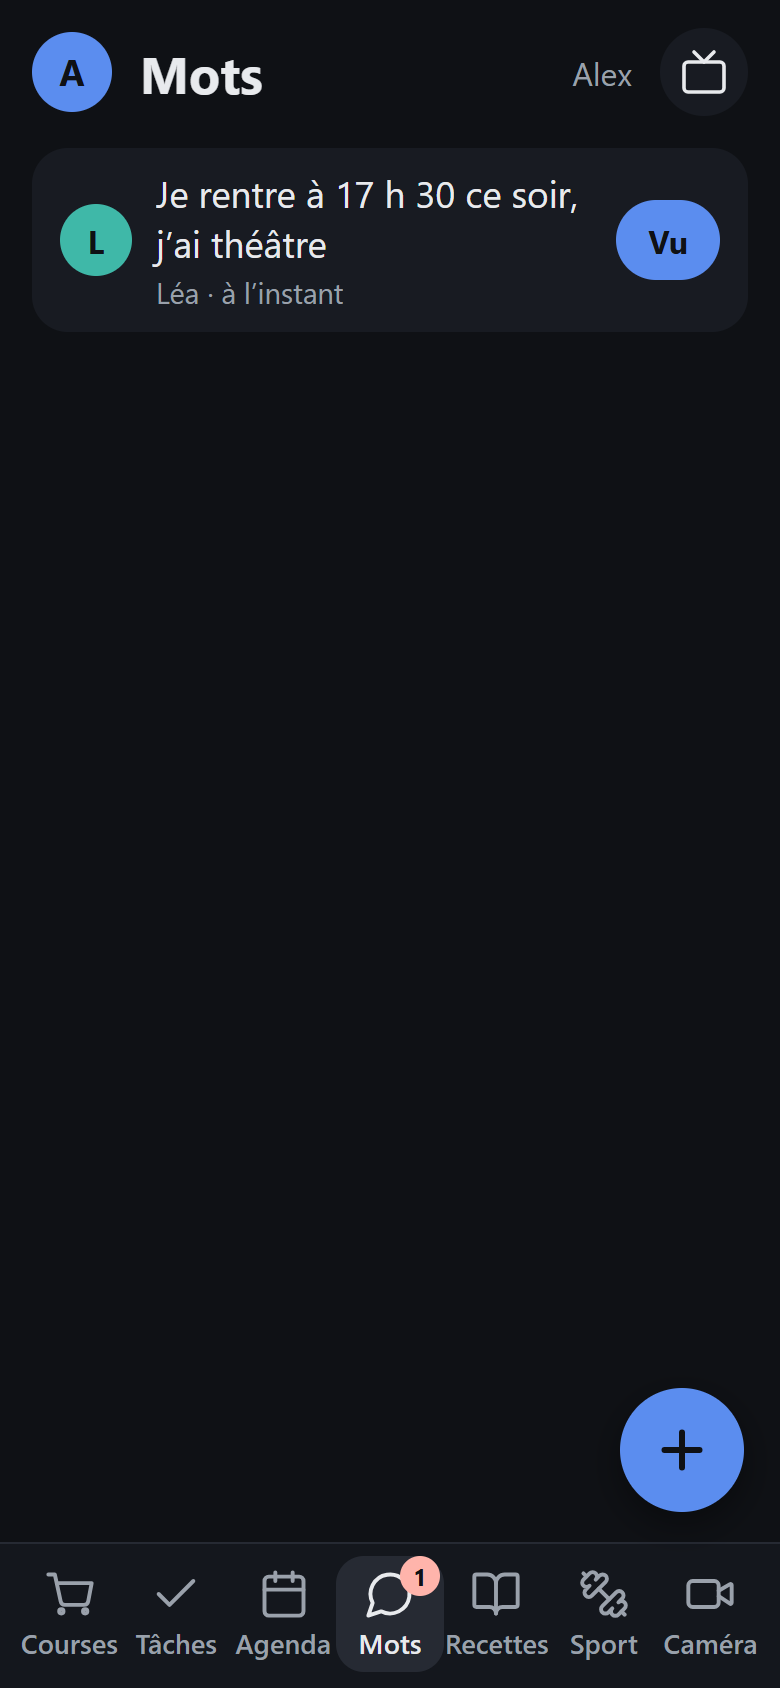
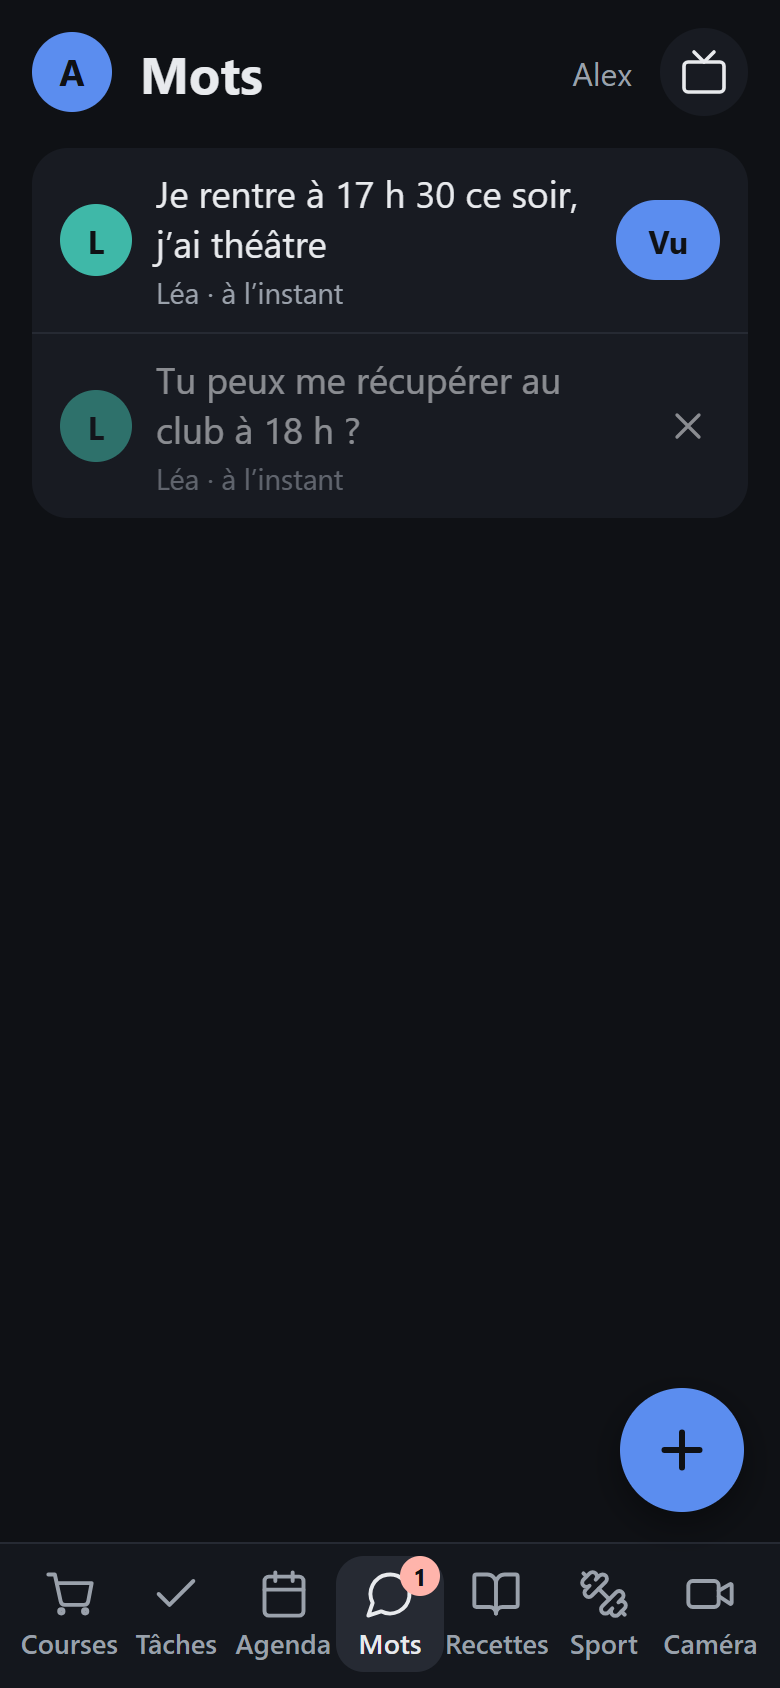
0.74.0 : croix pour supprimer un mot déjà lu
- Téléphone, onglet Mots : une croix (« Supprimer le mot ») en face de chaque mot déjà vu le supprime tout de
  suite, sans confirmation.
- Serveur : route DELETE /api/notes/:id, mêmes droits que « Vu » (son destinataire, un parent pour un mot à toute
  la famille) ; 409 pour un mot pas encore vu, 404 pour un mot inconnu.
- La tablette n'affiche que les mots pas encore vus : pas de croix à y mettre.
- Monde fictif : un mot déjà vu par Alex, capture de l'onglet Mots refaite ; README, écrans et TODO à jour.

Changed region(s): [[0.1846, 0.2156, 0.7077, 0.3081], [0.0615, 0.2156, 0.1846, 0.2773], [0.8615, 0.2464, 0.8923, 0.2773]]

diff --git a/web/src/components/phone/PhoneNotes.svelte b/web/src/components/phone/PhoneNotes.svelte
@@ -3,8 +3,10 @@
   import { formatAgo } from '../../lib/format.ts';
   import type { Profile } from '../../lib/profiles.ts';
   import Avatar from '../Avatar.svelte';
+  import Icon from '../Icon.svelte';
 
-  // Onglet Mots du téléphone : les mots reçus (pour moi ou pour toute la famille), les nouveaux d'abord, avec « Vu ».
+  // Onglet Mots du téléphone : les mots reçus (pour moi ou pour toute la famille), les nouveaux d'abord, avec « Vu »,
+  // et une croix pour supprimer ceux déjà vus.
   type Props = {
     /** Mots reçus, déjà triés ; null tant qu'ils ne sont pas chargés. */
     received: Note[] | null;
@@ -14,8 +16,11 @@
     profileOf: (id: string) => Profile | undefined;
     canSee: (note: Note) => boolean;
     onSee: (note: Note) => void;
+    /** Croix : mot déjà vu, que je peux marquer vu (le serveur revérifie). */
+    canRemove: (note: Note) => boolean;
+    onRemove: (note: Note) => void;
   };
-  let { received, loadError, actionError, now, profileOf, canSee, onSee }: Props = $props();
+  let { received, loadError, actionError, now, profileOf, canSee, onSee, canRemove, onRemove }: Props = $props();
 </script>
 
 {#if actionError}<p class="error">{actionError}</p>{/if}
@@ -33,6 +38,8 @@
         </div>
         {#if !note.seenAt && canSee(note)}
           <button type="button" class="seen" onclick={() => onSee(note)}>Vu</button>
+        {:else if canRemove(note)}
+          <button type="button" class="remove" aria-label="Supprimer le mot" title="Supprimer le mot" onclick={() => onRemove(note)}><Icon name="close" size={22} /></button>
         {/if}
       </li>
     {:else}
@@ -93,6 +100,19 @@
 
   .small {
     font-size: 0.9rem;
+  }
+
+  .remove {
+    display: grid;
+    width: 48px;
+    height: 48px;
+    flex-shrink: 0;
+    margin: -6px -8px -6px 0;
+    place-items: center;
+    border: 0;
+    border-radius: 50%;
+    background: none;
+    color: var(--fg);
   }
 
   .seen {

diff --git a/server/lists-api.test.ts b/server/lists-api.test.ts
@@ -250,6 +250,20 @@ describe('API des listes', () => {
     expect((await call('PUT', '/notes/inconnu/seen', { key: KEY, actor: alex })).status).toBe(404);
     const all = await (await call('GET', '/notes')).json();
     expect(all.filter((n: { seenAt?: string }) => !n.seenAt)).toHaveLength(1); // « Repas à 19 h », pas encore vu
+
+    // Supprimer un mot déjà vu : mêmes droits que « Vu ».
+    const unseen = all.find((n: { seenAt?: string }) => !n.seenAt);
+    expect((await call('DELETE', `/notes/${unseen.id}`, { key: KEY, actor: alex })).status).toBe(409); // pas encore vu
+    expect((await call('DELETE', `/notes/${fromPhone.id}`, { token })).status).toBe(403); // pour Alex, pas Tom
+    expect((await call('DELETE', `/notes/${fromPhone.id}`, { key: KEY, actor: tom })).status).toBe(403);
+    expect((await call('DELETE', `/notes/${family.id}`, { token })).status).toBe(403); // à toute la famille : un parent
+    expect((await call('DELETE', `/notes/${fromPhone.id}`)).status).toBe(403); // personne de reconnu
+    expect((await call('DELETE', `/notes/${fromTablet.id}`, { token })).status).toBe(204);
+    expect((await call('DELETE', `/notes/${family.id}`, { key: KEY, actor: alex })).status).toBe(204);
+    expect((await call('DELETE', `/notes/${family.id}`, { key: KEY, actor: alex })).status).toBe(404);
+    expect((await call('DELETE', '/notes/inconnu', { key: KEY, actor: alex })).status).toBe(404);
+    const left = await (await call('GET', '/notes')).json();
+    expect(left.map((n: { id: string }) => n.id).sort()).toEqual([fromPhone.id, unseen.id].sort());
   });
 
   it('visages : enregistrés avec le code parent, reconnus avec une marge sur la personne suivante', async () => {

diff --git a/web/src/lib/phone-app.test.ts b/web/src/lib/phone-app.test.ts
@@ -1,7 +1,7 @@
 // Tests de l'appli du téléphone : onglets selon le profil, mots reçus et pastille des mots à voir.
 import { describe, expect, it } from 'vitest';
 import { FAMILY_ID, type Note } from '../../../shared/types.ts';
-import { canMarkSeen, hasCameraTab, phoneTabs, receivedNotes, unseenCount } from './phone-app.ts';
+import { canMarkSeen, canRemoveNote, hasCameraTab, phoneTabs, receivedNotes, unseenCount } from './phone-app.ts';
 
 const note = (id: string, to: string, from: string | null, seenAt?: string): Note => ({ id, text: id, to, from: { ownerId: from, via: 'tablet' }, at: '2026-11-10T08:00:00Z', seenAt });
 const lea = { id: 'lea', parent: false };
@@ -37,6 +37,15 @@ describe('appli du téléphone', () => {
     expect(canMarkSeen(lea, note('a', FAMILY_ID, 'alex'))).toBe(false);
     expect(canMarkSeen(alex, note('a', FAMILY_ID, 'sam'))).toBe(true);
     expect(canMarkSeen(undefined, note('a', 'lea', 'alex'))).toBe(false);
+  });
+
+  it('croix : un mot déjà vu, que je peux marquer vu', () => {
+    const seen = '2026-11-10T09:00:00Z';
+    expect(canRemoveNote(lea, note('a', 'lea', 'alex', seen))).toBe(true);
+    expect(canRemoveNote(lea, note('a', 'lea', 'alex'))).toBe(false); // pas encore vu
+    expect(canRemoveNote(lea, note('a', FAMILY_ID, 'alex', seen))).toBe(false); // la famille : un parent
+    expect(canRemoveNote(alex, note('a', FAMILY_ID, 'sam', seen))).toBe(true);
+    expect(canRemoveNote(undefined, note('a', 'lea', 'alex', seen))).toBe(false);
   });
 
   it('pastille : mots pas vus que je peux marquer vus', () => {

diff --git a/server/sources/notes.ts b/server/sources/notes.ts
@@ -1,6 +1,6 @@
 // Mots de la famille : un membre en laisse un à un autre (ou à toute la famille), depuis son téléphone ou la
 // tablette. Enregistrés dans le dossier d'état (notes.json), comme les listes. Un mot s'efface quand son destinataire
-// l'a vu, et au plus tard au bout de NOTE_KEPT_DAYS jours.
+// l'a vu, et au plus tard au bout de NOTE_KEPT_DAYS jours ; un mot déjà vu peut aussi être supprimé tout de suite.
 import { randomUUID } from 'node:crypto';
 import { z } from 'zod';
 import type { Author, Note } from '../../shared/types.ts';
@@ -35,6 +35,8 @@ export type NotesStore = NoteSource & {
   add(to: string, text: string, from: Author): Promise<Note>;
   /** Marque le mot comme vu ; null s'il n'existe pas (ou plus). */
   markSeen(id: string, by: Author): Promise<Note | null>;
+  /** Supprime le mot ; le mot supprimé, ou null s'il n'existe pas (ou plus). */
+  remove(id: string): Promise<Note | null>;
 };
 
 export function createNotesStore({ path, clock }: { path: string; clock: Clock }): NotesStore {
@@ -73,6 +75,13 @@ export function createNotesStore({ path, clock }: { path: string; clock: Clock }
         if (!note) return null;
         if (!note.seenAt) Object.assign(note, { seenAt: clock().toISOString(), seenBy: by });
         return { ...note };
+      });
+    },
+
+    remove(id) {
+      return change((file) => {
+        const index = file.notes.findIndex((n) => n.id === id);
+        return index < 0 ? null : file.notes.splice(index, 1)[0];
       });
     },
   };

diff --git a/web/src/screens/Phone.svelte b/web/src/screens/Phone.svelte
@@ -29,7 +29,7 @@
   import { getAppContext } from '../lib/context.ts';
   import { createListsState } from '../lib/lists-state.svelte.ts';
   import { clearPairing, loadPairing } from '../lib/phone.ts';
-  import { canMarkSeen, hasCameraTab, phoneTabs, receivedNotes, unseenCount } from '../lib/phone-app.ts';
+  import { canMarkSeen, canRemoveNote, hasCameraTab, phoneTabs, receivedNotes, unseenCount } from '../lib/phone-app.ts';
   import { ApiError } from '../lib/api.ts';
   import { createResource } from '../lib/resource.svelte.ts';
   import { SCHOOL_LIFE_REFRESH_MS, hasSchoolLife } from '../lib/school-life.ts';
@@ -155,6 +155,18 @@
     }
   }
 
+  async function removeNote(note: Note) {
+    noteError = null;
+    try {
+      notes.set((notes.data ?? []).filter((n) => n.id !== note.id));
+      await api.removeNote(note.id);
+    } catch (err) {
+      noteError = (err as Error).message;
+    } finally {
+      await notes.refresh();
+    }
+  }
+
   async function writeNote({ to, text }: { to: string; text: string }) {
     await api.addNote(to, text);
     writing = false;
@@ -239,6 +251,8 @@
           {profileOf}
           canSee={(note) => canMarkSeen(member, note)}
           onSee={seeNote}
+          canRemove={(note) => canRemoveNote(member, note)}
+          onRemove={removeNote}
         />
       {:else if tab === 'agenda'}
         {#if hasSchoolLife(schoolLife.data)}

diff --git a/web/src/lib/api.ts b/web/src/lib/api.ts
@@ -140,6 +140,8 @@ export type Api = {
   /** `from` : profil ouvert sur la tablette (un téléphone envoie toujours depuis le sien). */
   addNote(to: string, text: string, from?: string | null): Promise<Note>;
   markNoteSeen(id: string): Promise<Note>;
+  /** Supprimer un mot déjà vu (mêmes droits que « Vu »). */
+  removeNote(id: string): Promise<void>;
   /** Visages enregistrés (tablette seule). */
   faces(): Promise<FacesOverview>;
   identifyFace(reading: FaceReadingInput): Promise<FaceSession>;
@@ -396,6 +398,7 @@ export function createApi(
     notes: () => request('/notes'),
     addNote: (to, text, from) => send('POST', '/notes', { to, text, from }),
     markNoteSeen: (id) => send('PUT', `/notes/${encodeURIComponent(id)}/seen`),
+    removeNote: (id) => send('DELETE', `/notes/${encodeURIComponent(id)}`),
     faces: () => request('/faces'),
     identifyFace: (reading) => send('POST', '/faces/identify', reading),
     diagnoseFace: (reading) => send('POST', '/faces/diagnose', reading),

diff --git a/web/src/lib/phone-app.ts b/web/src/lib/phone-app.ts
@@ -40,6 +40,9 @@ export function receivedNotes(notes: Note[], meId: string): Note[] {
 /** « Vu » : sur les mots de mon profil ; ceux de toute la famille, seulement pour un parent. */
 export const canMarkSeen = (member: Pick<Member, 'id' | 'parent'> | undefined, note: Note) => member !== undefined && canWrite(member, note.to);
 
+/** Croix « Supprimer le mot » : un mot déjà vu, avec les mêmes droits que « Vu » (le serveur revérifie). */
+export const canRemoveNote = (member: Pick<Member, 'id' | 'parent'> | undefined, note: Note) => Boolean(note.seenAt) && canMarkSeen(member, note);
+
 /** Pastille de l'onglet Mots : mots pas encore vus que je peux marquer vus. */
 export const unseenCount = (received: Note[], member: Pick<Member, 'id' | 'parent'> | undefined) =>
   received.filter((n) => !n.seenAt && canMarkSeen(member, n)).length;

diff --git a/scripts/docs-captures.ts b/scripts/docs-captures.ts
@@ -196,6 +196,9 @@ for (const task of [
   { label: 'Prendre rendez-vous chez le dentiste', ownerId: 'alex', due: null },
   { label: 'Vider le lave-vaisselle', ownerId: 'lea', due: day(0), repeat: { every: 1, unit: 'day' } },
 ]) await call(A, 'POST', '/lists/tasks', task);
+// Un mot déjà vu par Alex : il reste en grisé sur son téléphone, avec la croix qui le supprime.
+const seenNote = (await call(L, 'POST', '/notes', { to: 'alex', text: 'Tu peux me récupérer au club à 18 h ?' })) as { id: string };
+await call(A, 'PUT', `/notes/${seenNote.id}/seen`);
 await call(L, 'POST', '/notes', { to: 'alex', text: 'Je rentre à 17 h 30 ce soir, j’ai théâtre' });
 await call(A, 'POST', '/notes', { to: 'lea', text: 'Pense à ta tenue de sport pour demain' });
 await call(A, 'POST', '/notes', { to: 'famille', text: 'Pizza ce soir 🍕' });

diff --git a/server/sources/notes.test.ts b/server/sources/notes.test.ts
@@ -35,6 +35,16 @@ describe('mots de la famille', () => {
     expect(await store.markSeen('inconnu', TOM)).toBeNull();
   });
 
+  it('supprimé à la demande', async () => {
+    const { store } = setup();
+    const note = await store.add('alex', 'Pense à ton goûter', TOM);
+    const other = await store.add('alex', 'Bravo', TOM);
+    expect(await store.remove(note.id)).toMatchObject({ id: note.id, text: 'Pense à ton goûter' });
+    expect((await store.list()).map((n) => n.id)).toEqual([other.id]);
+    expect(await store.remove(note.id)).toBeNull();
+    expect(await store.remove('inconnu')).toBeNull();
+  });
+
   it('effacé au bout de quelques jours, même pas vu', async () => {
     const { store, wait } = setup();
     await store.add('alex', 'Vieux mot', TOM);

diff --git a/server/lists-api.ts b/server/lists-api.ts
@@ -115,5 +115,13 @@ export function createListsApi({ household, lists, notes, access, menu }: ListsA
     return c.json(await notes.markSeen(note.id, author));
   });
 
+  /** Supprimer un mot déjà vu : mêmes droits que « Vu » ; un mot pas encore vu reste (409). */
+  api.delete('/notes/:id', async (c) => {
+    const note = (await notes.list()).find((n) => n.id === c.req.param('id')) ?? fail(404, 'Mot inconnu');
+    await access.writer(c, note.to);
+    if (!note.seenAt) return fail(409, 'Mot pas encore vu');
+    return (await notes.remove(note.id)) ? c.body(null, 204) : fail(404, 'Mot inconnu');
+  });
+
   return api;
 }

diff --git a/docs/ecrans.md b/docs/ecrans.md
@@ -1,6 +1,6 @@
 # Écrans
 
-Captures de HomeHub 0.73.2, avec des **données fictives** : famille de test (Alex, Sam, Léa, Tom), agenda d'exemple,
+Captures de HomeHub 0.74.0, avec des **données fictives** : famille de test (Alex, Sam, Léa, Tom), agenda d'exemple,
 faux ÉcoleDirecte, faux temps réel Irigo, produits et marques inventés à la place d'Open Food Facts, recettes inventées sur un faux site de cuisine, fiches produit inventées d'une fausse enseigne de drive, calendrier
 scolaire d'exemple (zone B), horloge arrêtée le jeudi 5 novembre 2026 à 07:35 (le 11 novembre et en décembre pour les fériés et les vacances). La météo est réelle,
 celle du jour de la capture.
@@ -275,6 +275,9 @@ relient depuis le menu.
 | Courses | Tâches et devoirs | Agenda | Mots |
 |---|---|---|---|
 | ![Courses](images/telephone-courses.png) | ![Tâches](images/telephone-taches.png) | ![Agenda](images/telephone-agenda.png) | ![Mots](images/telephone-mots.png) |
+
+Dans l'onglet Mots, les mots pas encore vus d'abord, avec « Vu » ; ceux déjà vus restent en grisé, avec une croix qui
+les supprime tout de suite (ici le mot de Léa « Tu peux me récupérer au club à 18 h ? »).
 
 Les tâches s'ouvrent filtrées sur la personne du téléphone (ici Léa) ; si elle n'a rien à faire, sur « Tous ». Son
 bouton reste affiché après « Tous », même à 0, pour revenir à ses tâches ; les autres n'ont un bouton que s'ils ont

diff --git a/README.md b/README.md
@@ -217,8 +217,9 @@ Captures, diagrammes d'architecture et design : [docs/](docs/README.md).
   courses sur celui de la famille. Sur la tablette, ce qui est coché ou ajouté l'est au nom de la personne reconnue.
 - **Mots** : envoyés depuis un profil à un autre, ou à toute la famille (200 caractères) : depuis son téléphone
   (onglet Mots) ou la tablette (bloc « Mots » d'un dashboard, envoyé depuis ce profil ; on choisit seulement à qui). Le
-  destinataire le voit sur son dashboard et son téléphone, touche « Vu » et il disparaît ; sinon il s'efface au bout
-  de 7 jours (`notes.json`).
+  destinataire le voit sur son dashboard et son téléphone, touche « Vu » et il disparaît du dashboard ; sur le
+  téléphone il reste en grisé, avec une **croix** qui le supprime tout de suite (mêmes droits que « Vu », un mot pas
+  encore vu ne se supprime pas) ; sinon il s'efface au bout de 7 jours (`notes.json`).
 - **Téléphones** (`/telephones`, par la roue dentée de la tablette) : on choisit le profil, le téléphone scanne le QR code
   (valable 5 min, une seule fois) et devient l'appli de ce profil : `/m` (courses), `/m/taches` (avec, en tête, la
   routine du moment à cocher ; pastille sur l'onglet : étapes restantes), `/m/agenda`
